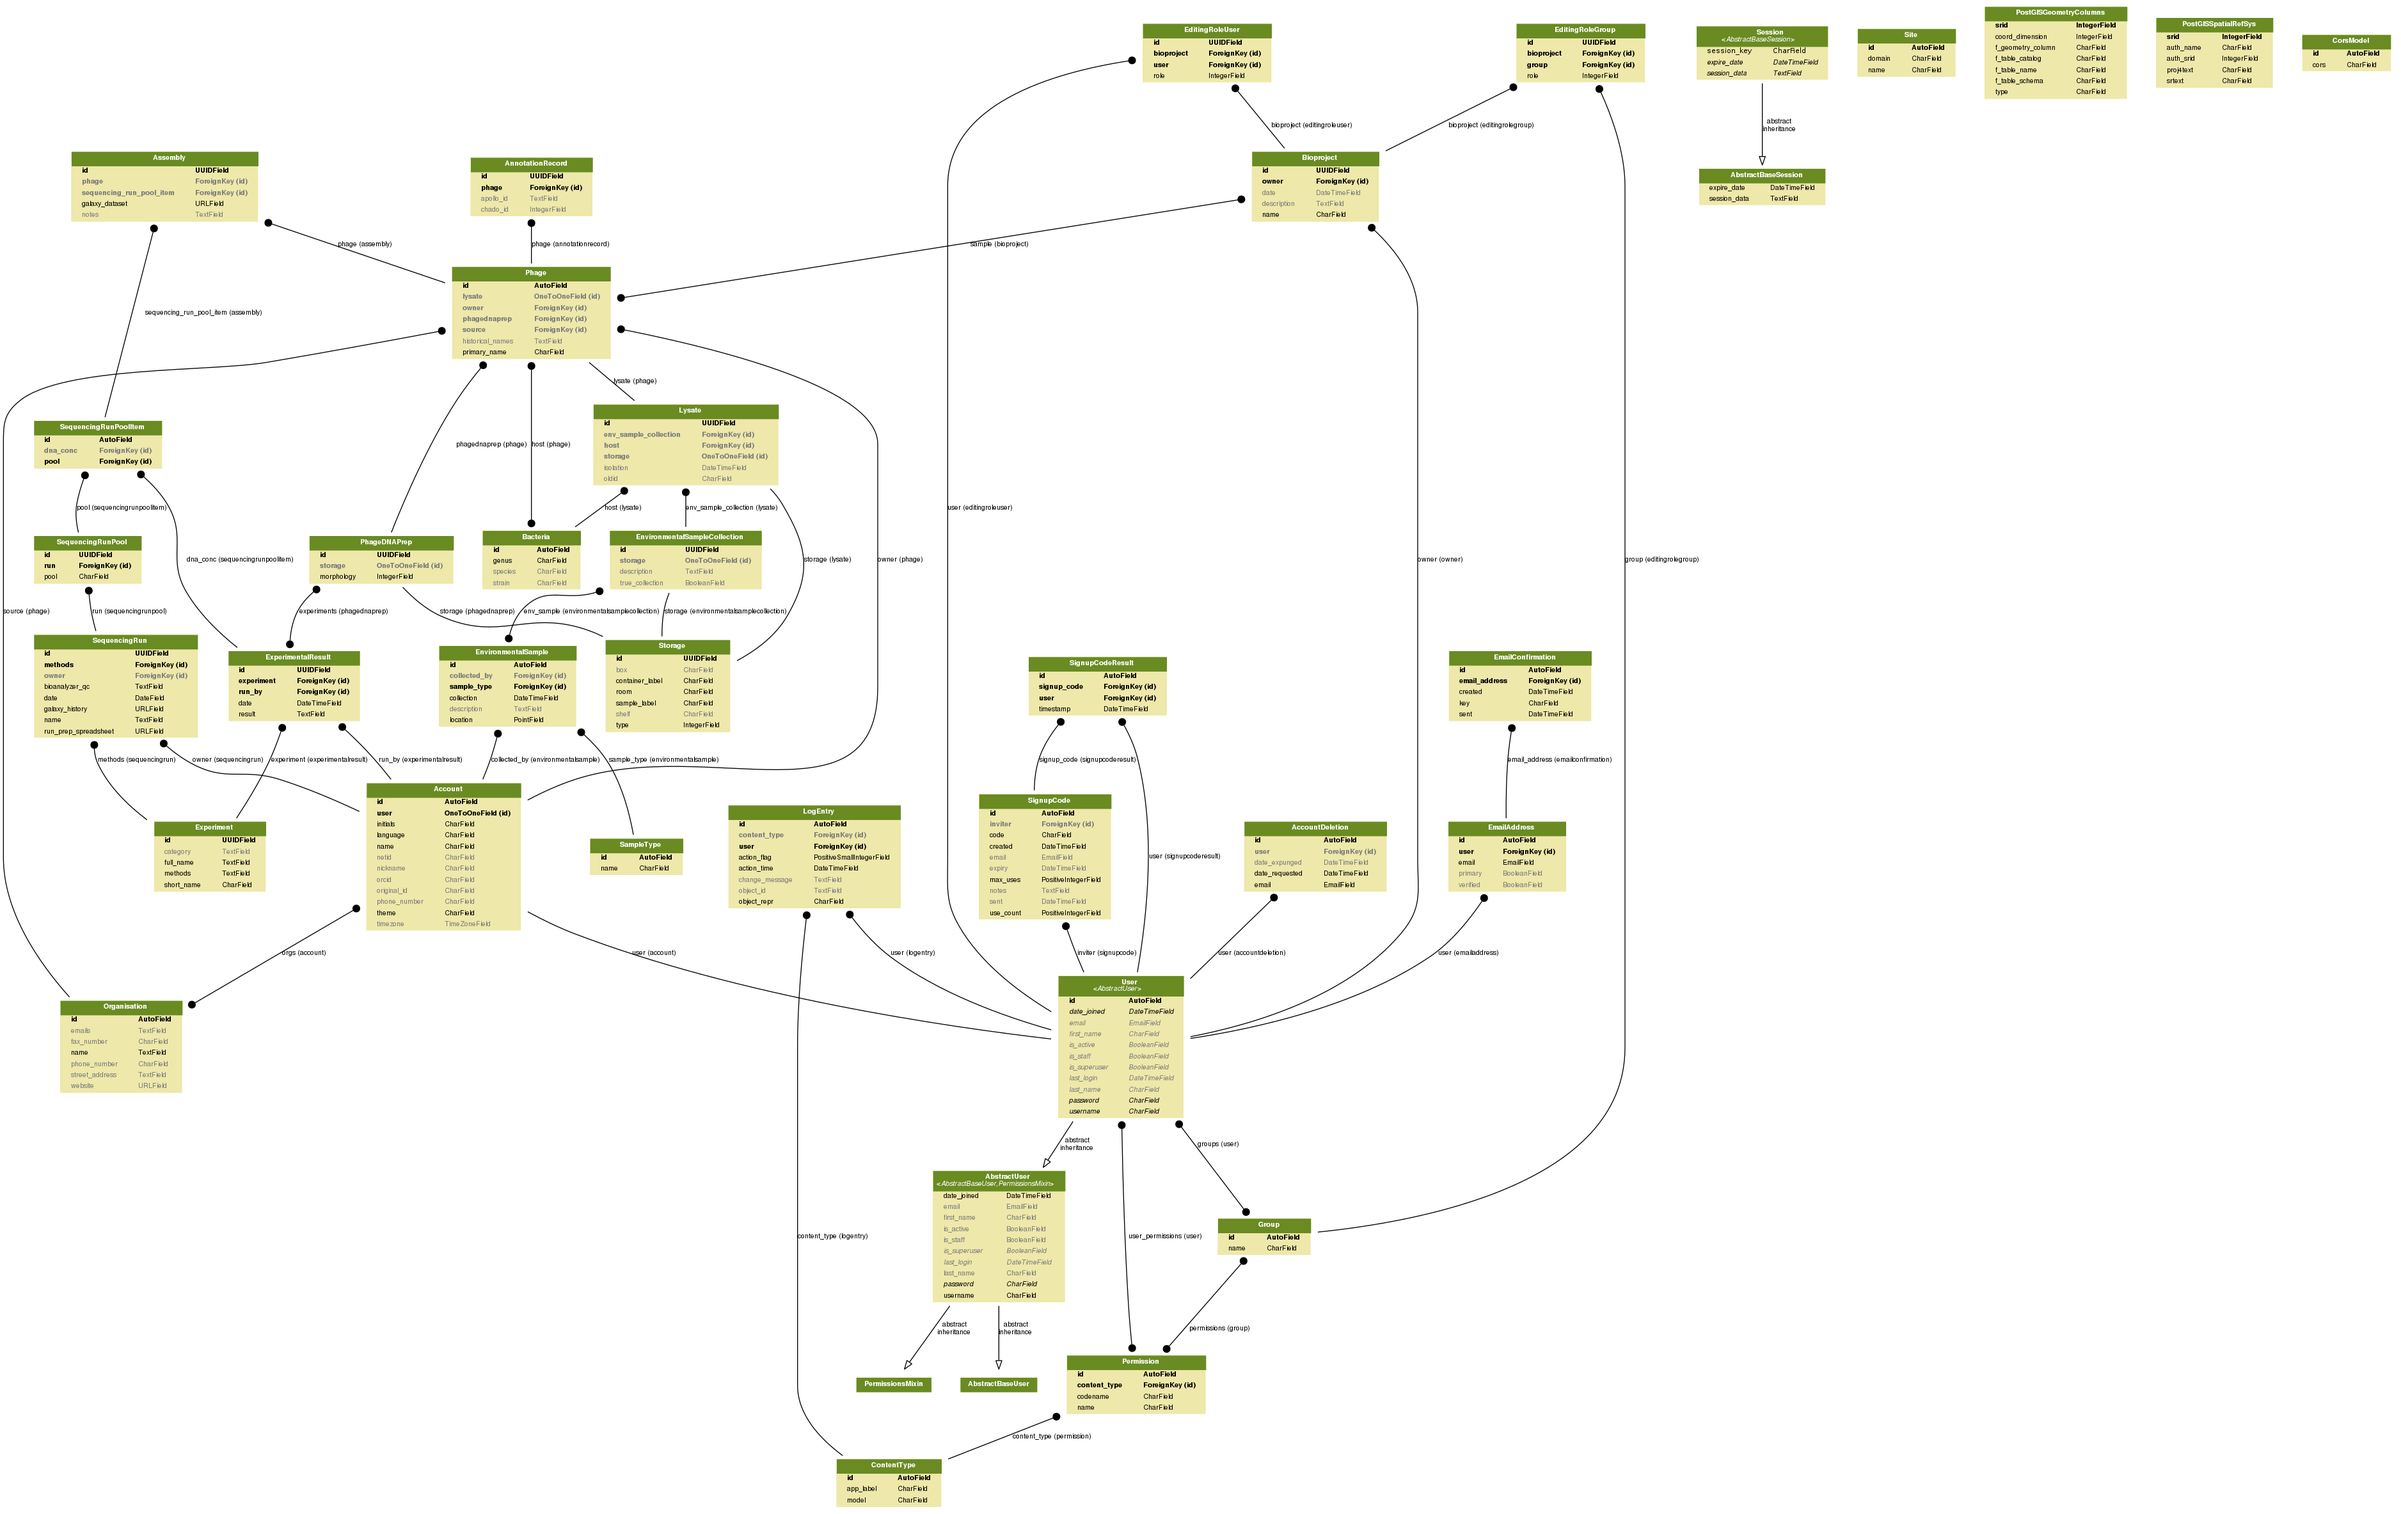
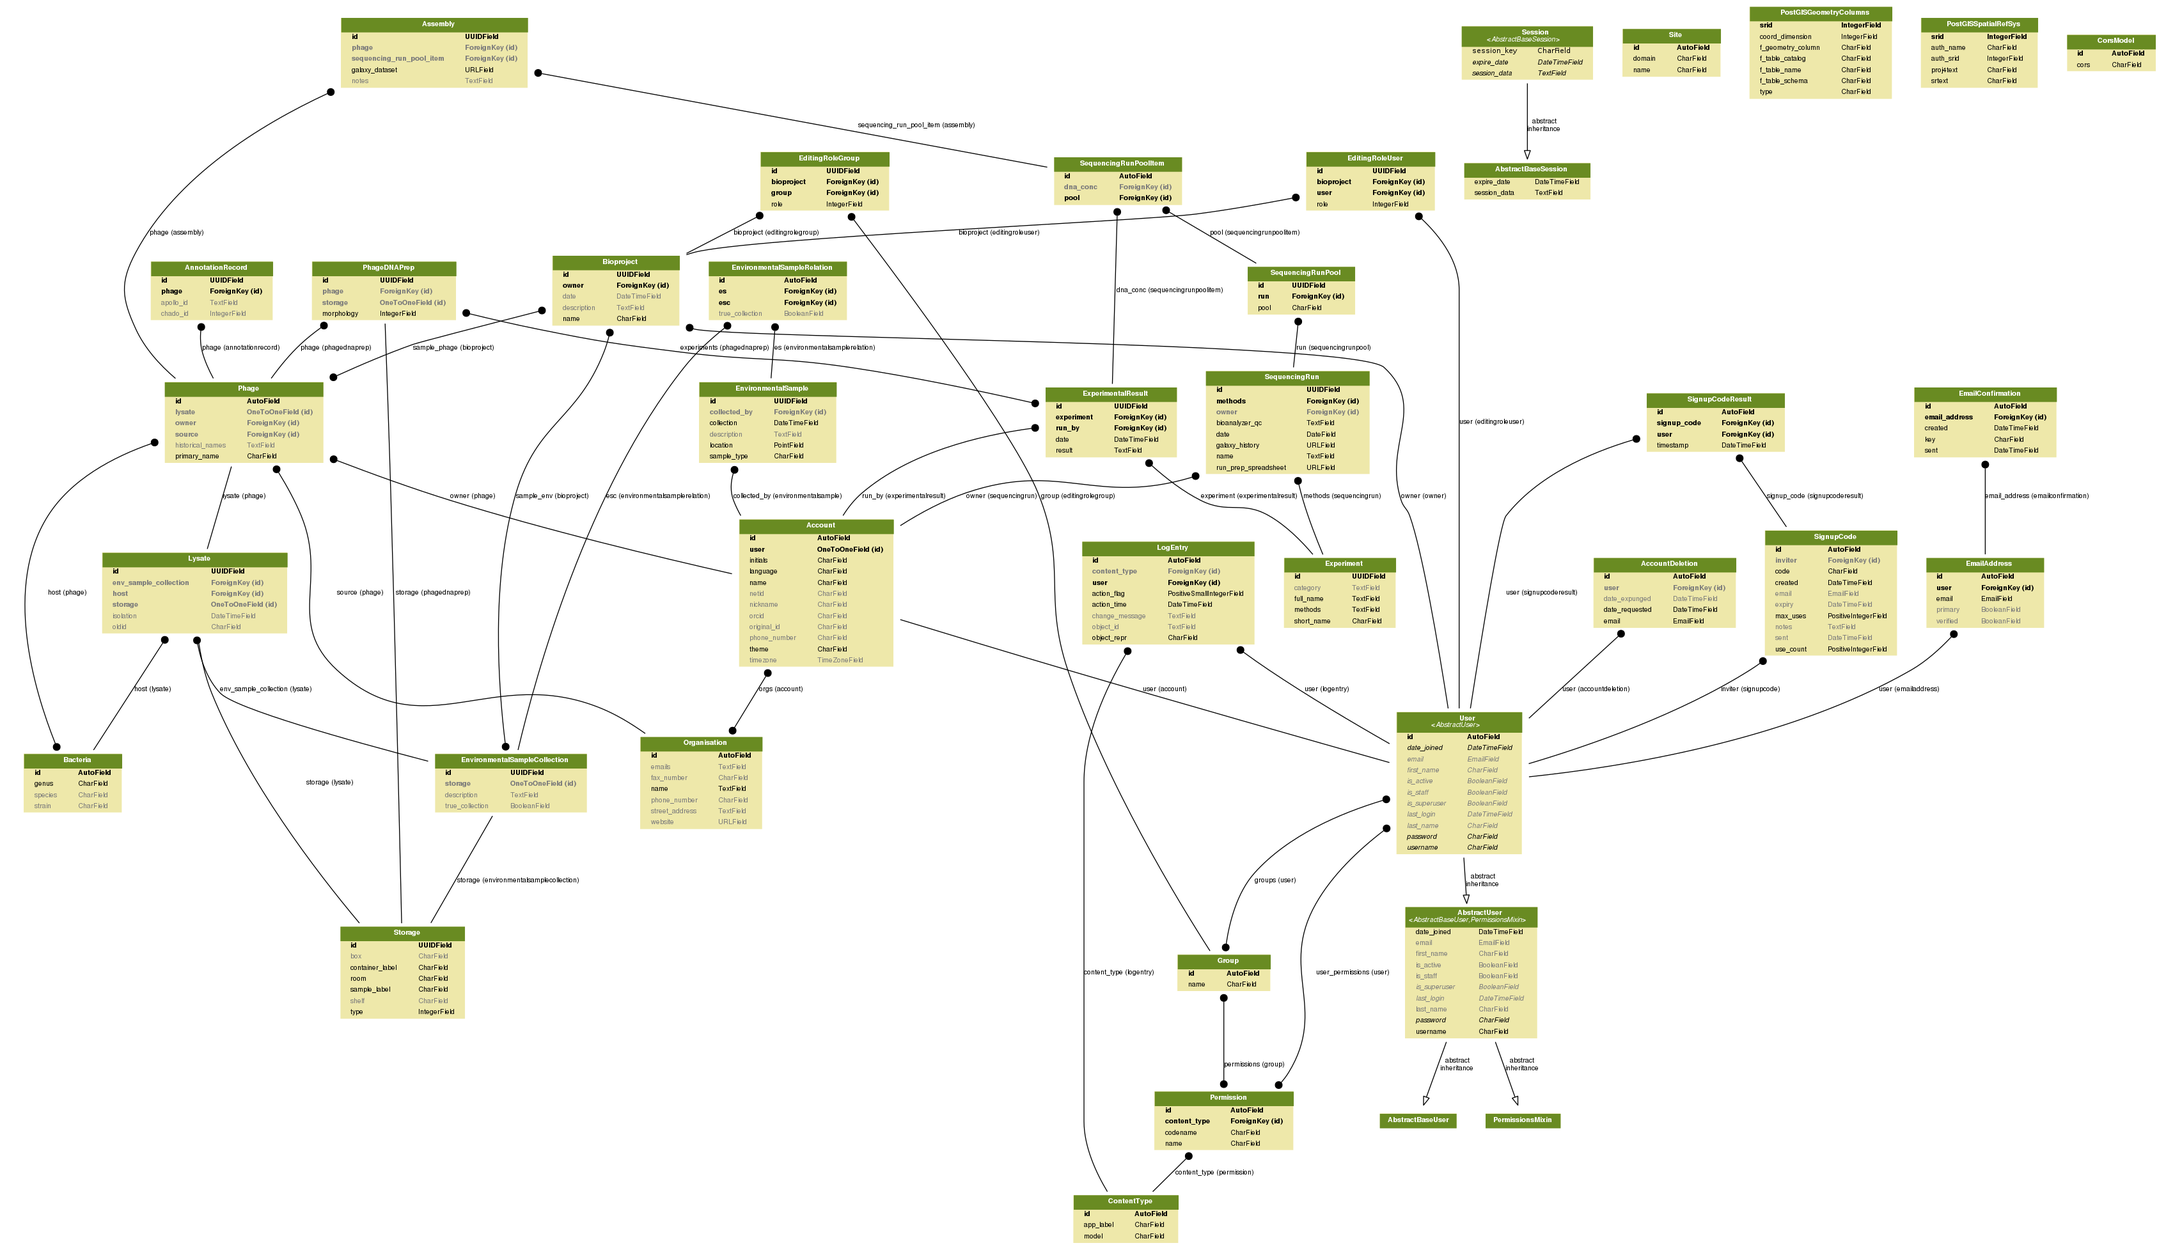
Reverse connection of phage/dnaprep link

diff --git a/lims/serializers.py b/lims/serializers.py
@@ -28,6 +28,22 @@ class NestableSerializer(serializers.ModelSerializer):
         return super(NestableSerializer, self).to_internal_value(data)
 
 
+class LiteStorageSerializer(serializers.ModelSerializer):
+    class Meta:
+        model = Storage
+        fields = ('id', 'room', 'type', 'container_label', 'shelf', 'box', 'sample_label')
+
+    def to_internal_value(self, data):
+        storage, _ = Storage.objects.get_or_create(
+            room=data['room'],
+            type=data['type'],
+            container_label=data['container_label'],
+            shelf=data['shelf'],
+            box=data['box'],
+            sample_label=data['sample_label'],
+        )
+        return storage
+
 
 class SeqRunExperimentSerializer(serializers.ModelSerializer):
     class Meta:
@@ -105,6 +121,8 @@ class ExperimentalResultDetailSerializer(serializers.ModelSerializer):
 
 
 class PhageDNAPrepSerializer(serializers.ModelSerializer):
+    storage = LiteStorageSerializer()
+
     class Meta:
         model = PhageDNAPrep
         fields = ('morphology', 'id', 'storage', 'experiments')
@@ -136,7 +154,7 @@ class BacteriaSerializer(serializers.ModelSerializer):
             # find a bacteria with specified genus / species
             if 'id' in data:
                 return Bacteria.objects.get(id=data['id'])
-        elif type(data) in (unicode, str):
+        else:
             parts = data.split()
             if len(parts) == 2:
                 genus, species = parts
@@ -183,26 +201,10 @@ class EnvironmentalSampleCollectionSerializer(NestableSerializer):
         return instance
 
     def to_internal_value(self, data):
-        if type(data) in (unicode, str):
+        if isinstance(data, str):
             return EnvironmentalSampleCollection.objects.get(id=data)
 
         return super(EnvironmentalSampleCollectionSerializer, self).to_internal_value(data)
-
-class LiteStorageSerializer(serializers.ModelSerializer):
-    class Meta:
-        model = Storage
-        fields = ('id', 'room', 'type', 'container_label', 'shelf', 'box', 'sample_label')
-
-    def to_internal_value(self, data):
-        storage, _ = Storage.objects.get_or_create(
-            room=data['room'],
-            type=data['type'],
-            container_label=data['container_label'],
-            shelf=data['shelf'],
-            box=data['box'],
-            sample_label=data['sample_label'],
-        )
-        return storage
 
 
 class LitePhageSerializer(serializers.ModelSerializer):
@@ -360,6 +362,24 @@ class StorageSerializer(serializers.ModelSerializer):
             return BasicEnvironmentalSampleCollectionSerializer(obj.environmentalsamplecollection).data
         else:
             return
+
+    def to_internal_value(self, data):
+        print('asdf')
+        if isinstance(data, dict):
+            if 'id' in dict:
+                raise Exception("Please double check me!")
+
+            storage, _ = Storage.objects.get_or_create(
+                room=data['room'],
+                type=data['type'],
+                container_label=data['container_label'],
+                shelf=data['shelf'],
+                box=data['box'],
+                sample_label=data['sample_label'],
+            )
+            return storage
+
+        raise Exception("Please double check me!")
 
 
 class RoomStorageSerializer(serializers.ModelSerializer):

diff --git a/lims/models.py b/lims/models.py
@@ -163,22 +163,6 @@ class ExperimentalResult(models.Model):
         )
 
 
-class PhageDNAPrep(models.Model):
-    id = models.UUIDField(primary_key=True, default=uuid.uuid4, editable=False)
-    morphology = models.IntegerField(choices=PHAGE_MORPHOLOGY)
-
-    # These will point to OMERO eventually...
-    # tem_image = models.URLField()
-    # gel_image = models.URLField()
-    # Nanodrop, pico green, other?
-    experiments = models.ManyToManyField(ExperimentalResult, blank=True)
-
-    storage = models.OneToOneField(Storage, blank=True, null=True)
-
-    def __unicode__(self):
-        return u'%s morphology' % (self.get_morphology_display())
-
-
 class SequencingRun(models.Model):
     id = models.UUIDField(primary_key=True, default=uuid.uuid4, editable=False)
     galaxy_history = models.URLField()
@@ -250,11 +234,26 @@ class Phage(models.Model):
     primary_name = models.CharField(max_length=64)
     historical_names = models.TextField(blank=True, null=True)  # JSON encoded list of old names
     lysate = models.OneToOneField(Lysate, blank=True, null=True)
-    phagednaprep = models.ForeignKey(PhageDNAPrep, blank=True, null=True)
     host = models.ManyToManyField(Bacteria, blank=True)
     owner = models.ForeignKey(Account, blank=True, null=True)
     source = models.ForeignKey(Organisation, blank=True, null=True)
     # notes = models.TextField(blank=True)
+
+
+class PhageDNAPrep(models.Model):
+    id = models.UUIDField(primary_key=True, default=uuid.uuid4, editable=False)
+    morphology = models.IntegerField(choices=PHAGE_MORPHOLOGY)
+
+    # These will point to OMERO eventually...
+    # tem_image = models.URLField()
+    # gel_image = models.URLField()
+    # Nanodrop, pico green, other?
+    experiments = models.ManyToManyField(ExperimentalResult, blank=True)
+    phage = models.ForeignKey(Phage, blank=True, null=True)
+    storage = models.OneToOneField(Storage, blank=True, null=True)
+
+    def __unicode__(self):
+        return u'%s morphology' % (self.get_morphology_display())
 
 
 class Assembly(models.Model):

diff --git a/lims/migrations/0004_auto_20161222_2030.py b/lims/migrations/0004_auto_20161222_2030.py
@@ -1,0 +1,25 @@
+# -*- coding: utf-8 -*-
+# Generated by Django 1.10.1 on 2016-12-22 20:30
+from __future__ import unicode_literals
+
+from django.db import migrations, models
+import django.db.models.deletion
+
+
+class Migration(migrations.Migration):
+
+    dependencies = [
+        ('lims', '0003_auto_20161222_0015'),
+    ]
+
+    operations = [
+        migrations.RemoveField(
+            model_name='phage',
+            name='phagednaprep',
+        ),
+        migrations.AddField(
+            model_name='phagednaprep',
+            name='phage',
+            field=models.ForeignKey(blank=True, null=True, on_delete=django.db.models.deletion.CASCADE, to='lims.Phage'),
+        ),
+    ]
